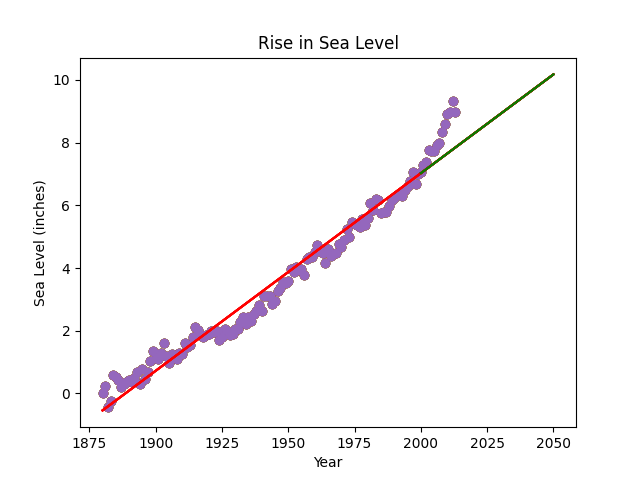
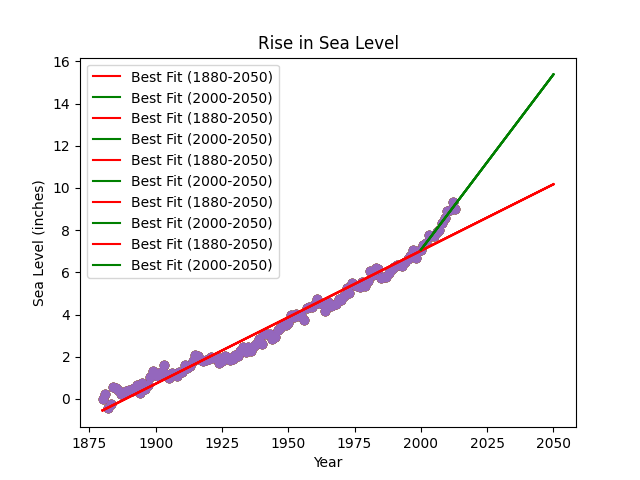
fix mismatch in dates

diff --git a/sea_level_predictor.py b/sea_level_predictor.py
@@ -9,23 +9,25 @@ def draw_plot():
     # Create scatter plot
     plt.scatter(data['Year'], data['CSIRO Adjusted Sea Level'])
 
-    # Create lines of best fit
-    x = data['Year']
-    y = data['CSIRO Adjusted Sea Level']
-    res = linregress(x, y)
+    # First Line of Best Fit (Using All Data)
+    res = linregress(data['Year'], data['CSIRO Adjusted Sea Level'])
+    x_pred_1 = pd.Series(range(1880, 2051))
+    y_pred_1 = res.intercept + res.slope * x_pred_1
+    plt.plot(x_pred_1, y_pred_1, 'r', label="Best Fit (1880-2050)")
 
-    x_pred = pd.Series(range(1880, 2051))
-    y_pred = res.intercept + res.slope * x_pred
-    plt.plot(x_pred, y_pred, 'r')
+    # Second Line of Best Fit (Using Only Data From 2000 Onward)
+    data_recent = data[data['Year'] >= 2000]  # Ensure only data from 2000 onward is used
+    res_recent = linregress(data_recent['Year'], data_recent['CSIRO Adjusted Sea Level'])
 
-    x_second = pd.Series(range(2000, 2051))
-    y_second = res.intercept + res.slope * x_second
-    plt.plot(x_second, y_second, 'g')
+    x_pred_2 = pd.Series(range(2000, 2051))  # Predict from 2000 to 2050
+    y_pred_2 = res_recent.intercept + res_recent.slope * x_pred_2
+    plt.plot(x_pred_2, y_pred_2, 'g', label="Best Fit (2000-2050)")
 
     # Add labels and title
     plt.xlabel('Year')
     plt.ylabel('Sea Level (inches)')
     plt.title('Rise in Sea Level')
+    plt.legend()
 
     # Save plot and return data for testing (DO NOT MODIFY)
     plt.savefig('sea_level_plot.png')
